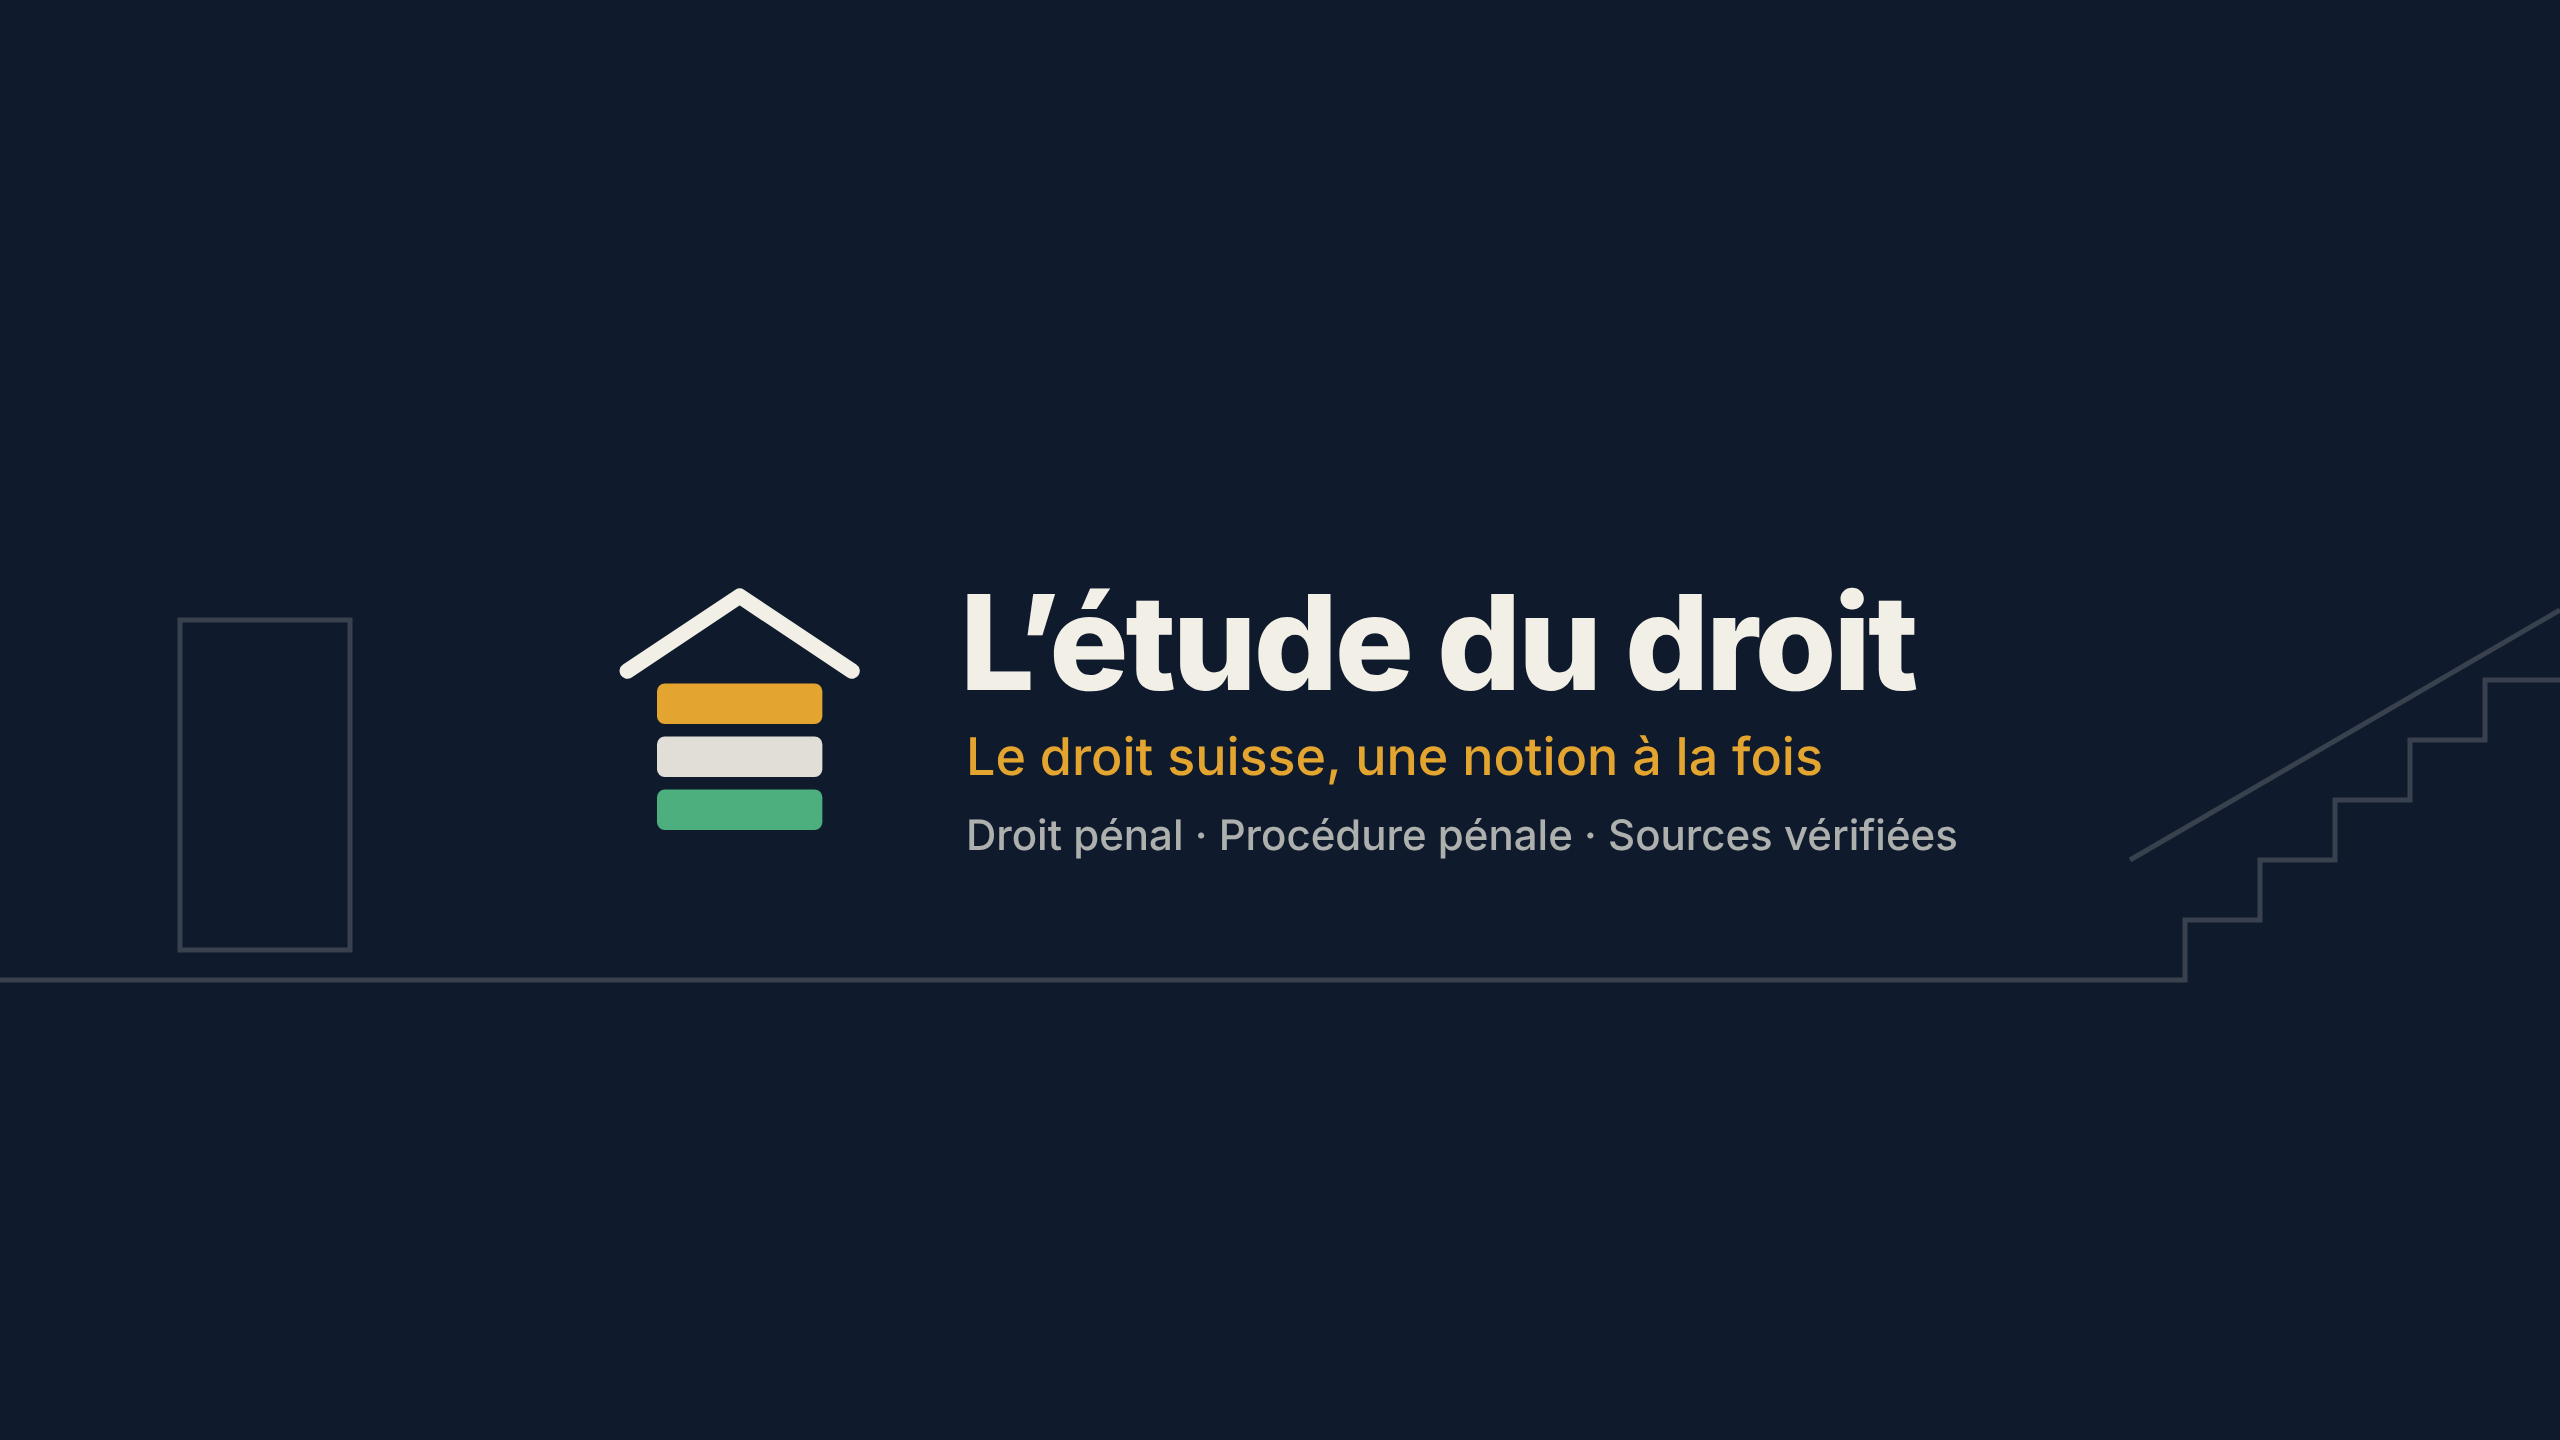
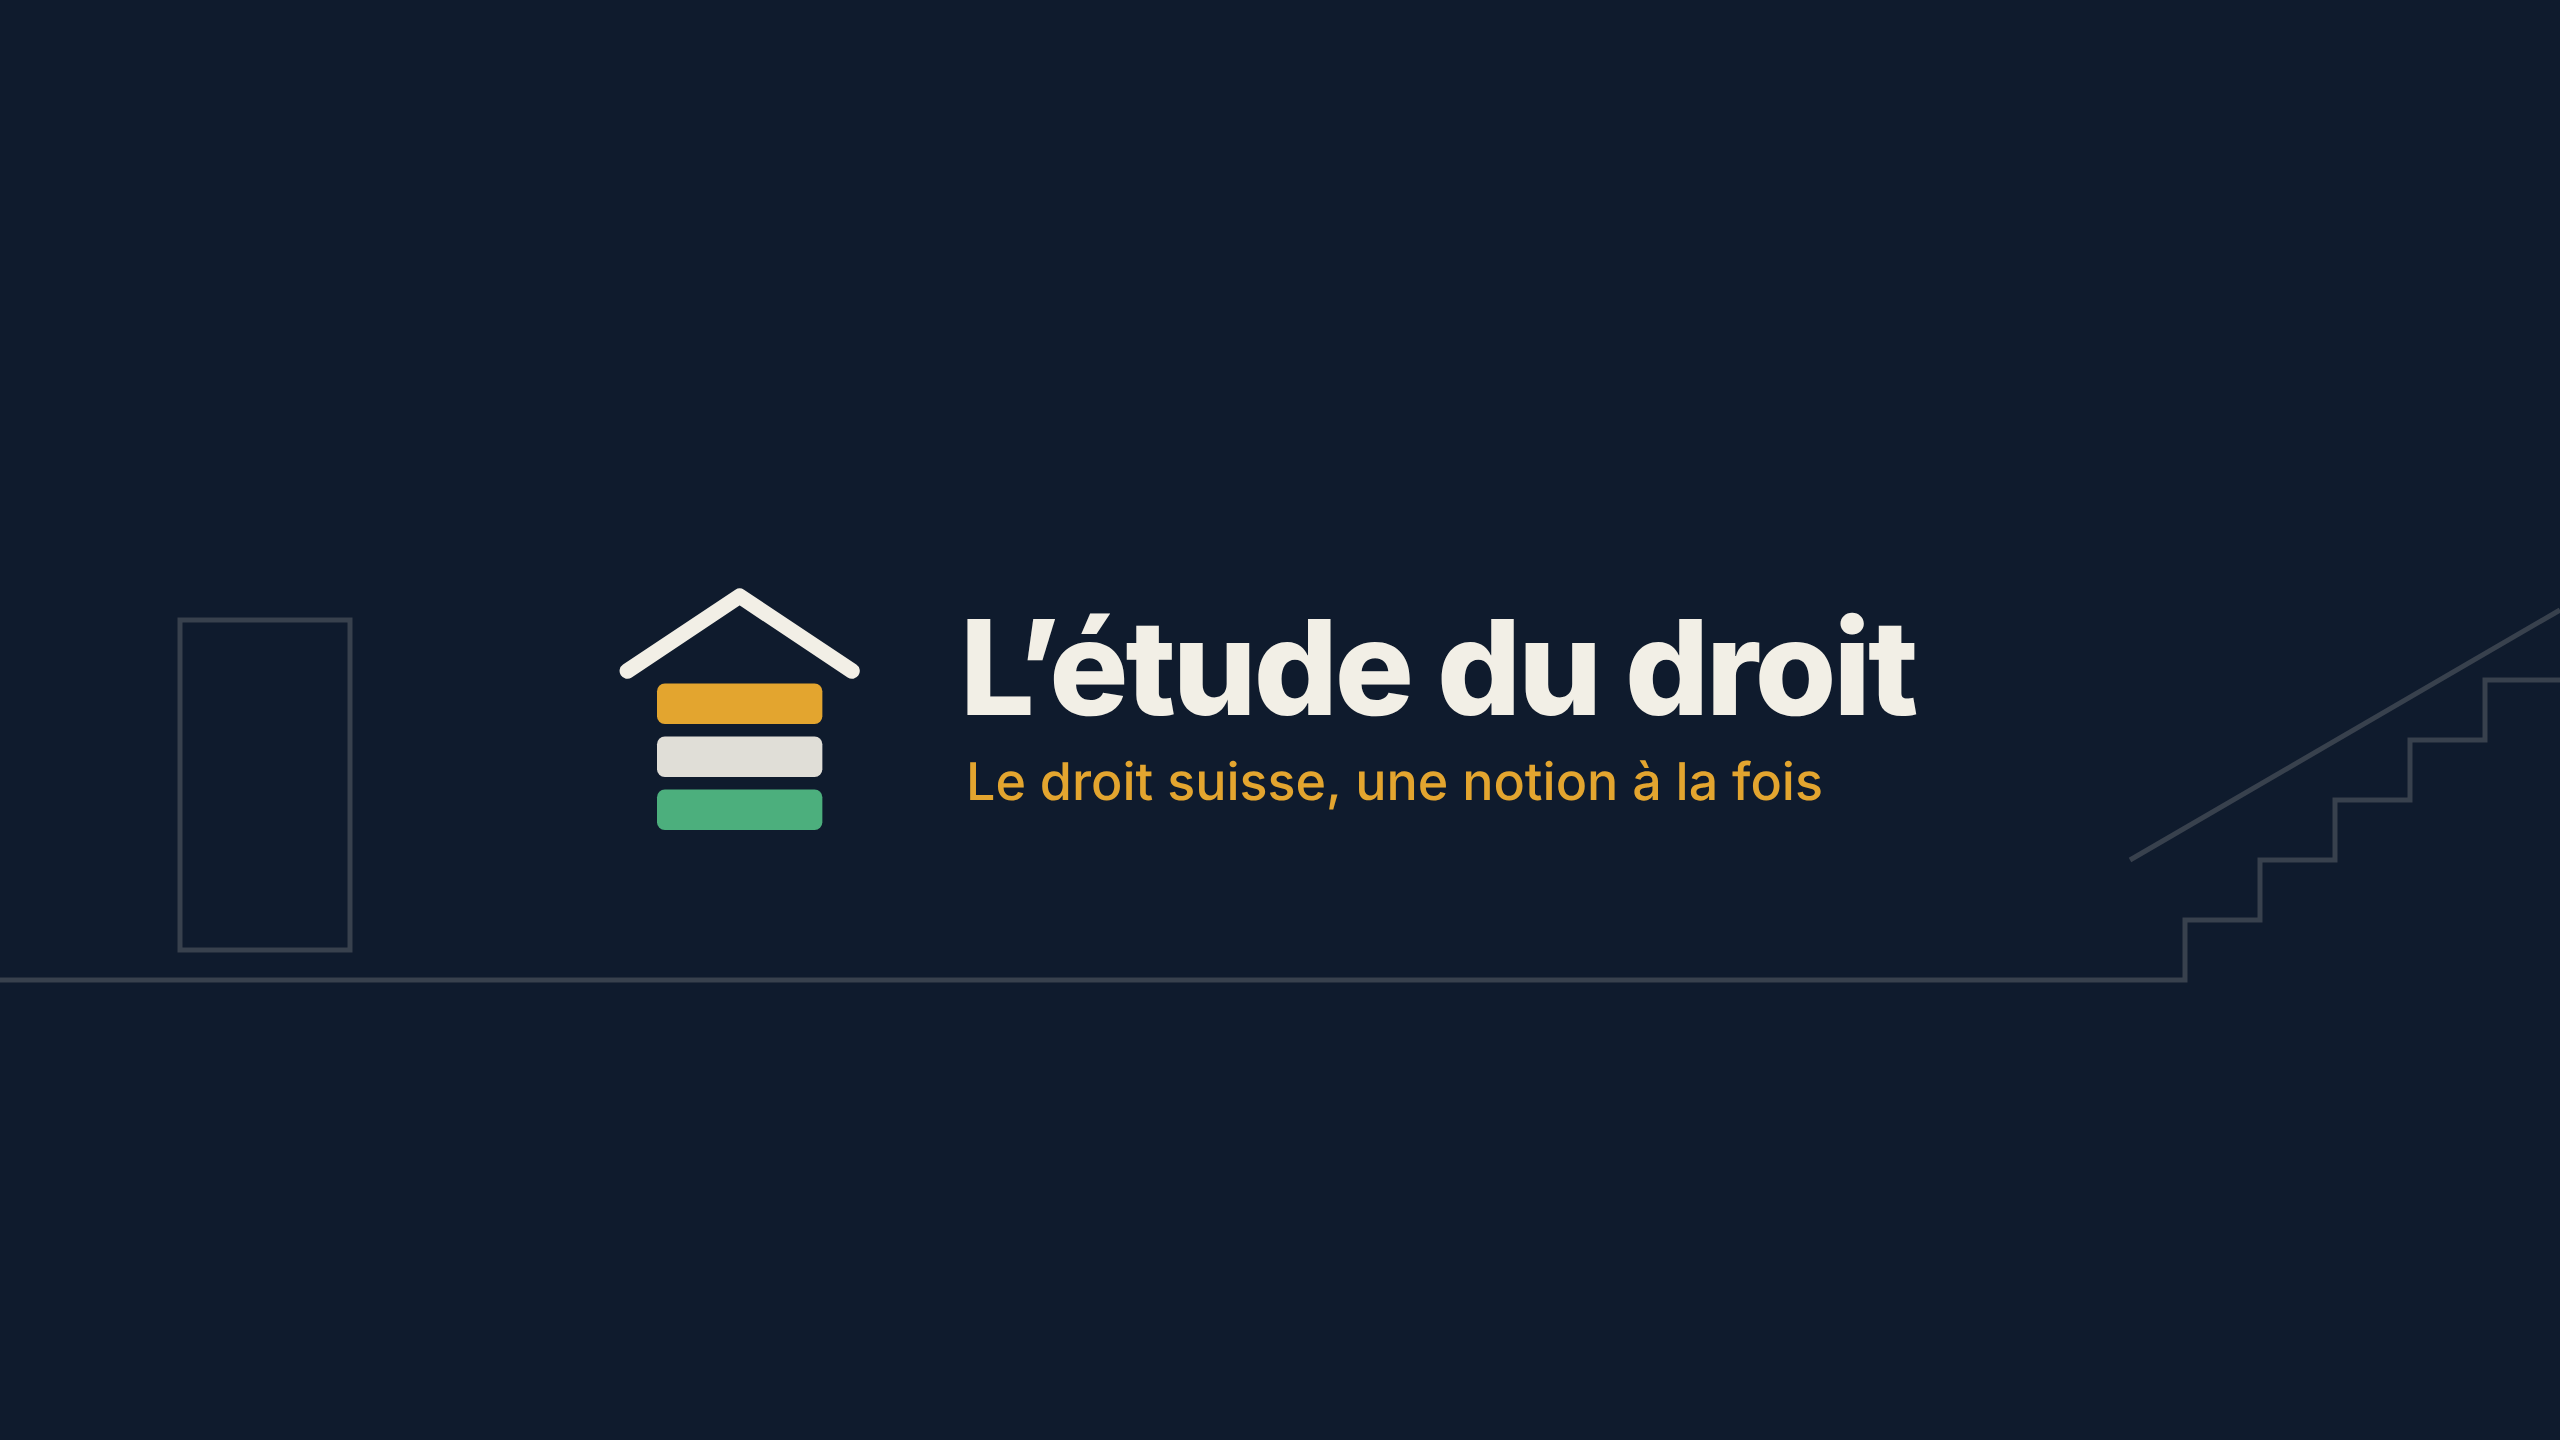
Bannière : sans la ligne « Droit pénal · Procédure pénale · Sources vérifiées »
Claude-Session: https://claude.ai/code/session_01UWa1JeTci227DpmXZSJt8k

Changed region(s): [[0.375, 0.4062, 0.7812, 0.5938]]

diff --git a/docs/marque/README.md b/docs/marque/README.md
@@ -9,7 +9,7 @@ Le symbole est le bâtiment à trois étages des vidéos, réduit à l'essentiel
 | `symbole.svg`, `png/symbole-1024.png` | Symbole seul, coins arrondis | 1024 × 1024 |
 | `profil.svg`, `png/profil-800.png` | Photo de profil YouTube (rognée en cercle) | 800 × 800 |
 | `png/profil-1080.png` | Photo de profil Instagram, TikTok | 1080 × 1080 |
-| `banniere-youtube.svg`, `png/banniere-youtube-2560x1440.png` | Bannière YouTube ; tout le texte tient dans la zone visible partout (1546 × 423 au centre) | 2560 × 1440 |
+| `banniere-youtube.svg`, `png/banniere-youtube-2560x1440.png` | Bannière YouTube : symbole, nom et signature ; tout tient dans la zone visible partout (1546 × 423 au centre) | 2560 × 1440 |
 | `logo-horizontal.svg`, `png/logo-horizontal-1600x512.png` | Symbole + nom + signature : documents, présentations, site | 1600 × 512 |
 | `png/filigrane-150.png` | Filigrane YouTube (Studio → Personnalisation → Branding) | 150 × 150 |
 
@@ -21,7 +21,6 @@ Ouverture et fin des vidéos : le symbole s'y construit (étages de bas en haut,
 
 - Nom : **L'étude du droit** (apostrophe typographique ’ dans les visuels). Handle sans accent ni apostrophe : `letudedudroit`.
 - Signature : **Le droit suisse, une notion à la fois.**
-- Ligne de présentation : Droit pénal · Procédure pénale · Sources vérifiées.
 
 ## Couleurs (celles de la charte visuelle)
 
